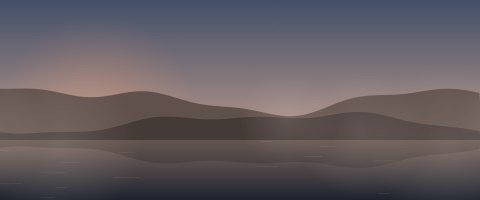
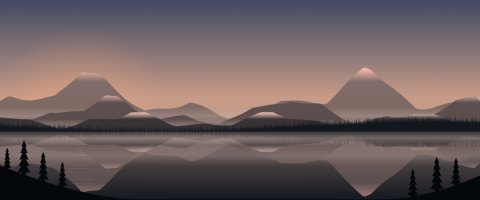
Fogline rebuilt: an alpine lake in morning fog
Four mountain ranges fading into the distance with snow caps that turn rose
at dawn and dusk (or with GPU load), fog banks drifting between the ranges
and over the water, a forest of fir tips along the shore, dark rocks and
pines in front, everything mirrored in the lake with a path of light.
The forest is drawn with the geometry renderer and its own clamped scale
(the curve renderer and a tiny transient scale made it stall).

Claude-Session: https://claude.ai/code/session_01KZiqyKDbVFHqr1XB5ozT8u

diff --git a/plasma/wallpapers/org.pillbox.atmosphere/contents/ui/FoglineScene.qml b/plasma/wallpapers/org.pillbox.atmosphere/contents/ui/FoglineScene.qml
@@ -1,6 +1,9 @@
 /*
- * Fogline – a misty lake under mountains, mirrored in the water.
- * Static shapes coloured by the clock; only fog banks and glints drift.
+ * Fogline – an alpine lake in morning fog. Four mountain ranges fade into the
+ * distance, snow caps catch the first and last light, fog banks drift between the
+ * ranges and over the water, a forest lines the shore and everything is mirrored
+ * in the still lake. CPU: the fog thickens and drifts. GPU: alpenglow on the peaks.
+ * Unread: rings on the water.
  * SPDX-License-Identifier: MIT
  */
 import QtQuick
@@ -10,141 +13,234 @@ import "palette.js" as P
 Item {
     id: scene
     property var env
-    readonly property real hour: env ? env.hour : 15
-    readonly property var sky: P.sky(hour, [110, 140, 165], 0.14)
-    readonly property var sunPos: P.sun(hour, 0.7)
-    readonly property real water: height * 0.7
-    readonly property real heat: env ? Math.max(0, (env.gpu - 0.25) / 0.7) : 0
-    readonly property real dens: Math.min(1, (env ? env.cpu : 0) + ({ light: 0, normal: 0.22, dense: 0.55 }[((env && env.cfg && env.cfg.FoglineFog) || "normal")] || 0))
-    readonly property bool live: env && env.running
+    readonly property real hour: env ? env.hour : 7.5
     readonly property real t: env ? env.time : 0
+    readonly property real cpu: env ? env.cpu : 0
+    readonly property real gpu: env ? env.gpu : 0
+    readonly property var sky: P.sky(hour, [118, 138, 162], 0.12)
+    readonly property real night: sky.star
+    readonly property var sunPos: P.sun(hour, 0.6)
+    readonly property real water: height * 0.66
+    readonly property real s: height / 1440
+    readonly property real vh: Math.min(height, width * 0.6)
+    // golden hour: warm light on the snow in the morning and evening, or from the GPU
+    readonly property real golden: Math.max(Math.max(0, 1 - Math.abs(hour - 7) / 1.6), Math.max(0, 1 - Math.abs(hour - 18.6) / 1.6))
+    readonly property real glow: Math.min(1, golden * (1 - night) + gpu * 0.7)
+    readonly property real dens: Math.min(1, cpu + ({ light: 0, normal: 0.25, dense: 0.6 }[(env && env.cfg && env.cfg.FoglineFog) || "normal"] || 0.25))
+    readonly property var light: sunPos.up ? P.mix([255, 238, 210], [255, 170, 120], golden) : [222, 230, 245]
+    readonly property real lightX: (sunPos.up ? sunPos.x : 0.7) * width
 
-    function ridge(base, amp, seed) {
-        const pts = [Qt.point(-10, water)]
-        for (let x = -10; x <= width + 10; x += 16) {
+    // ---------------------------------------------------------------- geometry
+    function tri(x) { const f = x - Math.floor(x); return 1 - Math.abs(2 * f - 1) }
+    function ridge(base, amp, seed, f1, f2, sharp) {
+        const pts = [Qt.point(-10, water + 2)]
+        for (let x = -10; x <= width + 10; x += 10) {
             const u = x / Math.max(1, width)
-            const y = Math.sin(u * 6.1 + seed) * 0.5 + Math.sin(u * 13.7 + seed * 2.3) * 0.25 + Math.sin(u * 29.3 + seed * 4.1) * 0.12
-            pts.push(Qt.point(x, base - (y * 0.5 + 0.5) * amp))
+            const v = Math.pow(tri(u * f1 + seed), sharp) * 0.62 + tri(u * f2 + seed * 1.9) * 0.26 + Math.sin(u * 61 + seed * 5) * 0.025
+            pts.push(Qt.point(x, base - v * amp))
         }
-        pts.push(Qt.point(width + 10, water))
+        pts.push(Qt.point(width + 10, water + 2))
         return pts
     }
-    readonly property var farRidge: ridge(height * 0.6, height * 0.22, 1.3)
-    readonly property var nearRidge: ridge(height * 0.69, height * 0.16, 4.2)
+    // the forest: a gentle hill line with many small fir tips on top
+    function forest(base, amp, seed) {
+        const pts = [Qt.point(-10, water + 2)]
+        if (width < 50 || height < 50) return pts          // not laid out yet (avoids an endless loop)
+        const k = Math.max(0.5, height / 1440)              // own scale, never tiny
+        let x = -10, i = 0
+        while (x <= width + 10) {
+            const u = x / Math.max(1, width)
+            const hill = base - (Math.sin(u * 5.3 + seed) * 0.5 + 0.5) * amp
+            const h = (16 + P.rnd(i, seed) * 34) * k
+            const w = (5 + P.rnd(i, seed + 1) * 4) * k
+            pts.push(Qt.point(x, hill))
+            pts.push(Qt.point(x + w * 0.5, hill - h))
+            x += w; i++
+        }
+        pts.push(Qt.point(width + 10, water + 2))
+        return pts
+    }
+    readonly property var ranges: [
+        ridge(water - vh * 0.06, vh * 0.32, 0.21, 1.7, 5.3, 2.6),     // farthest, tallest, craggy
+        ridge(water - vh * 0.03, vh * 0.2, 0.93, 2.6, 7.1, 2.0),
+        ridge(water - vh * 0.01, vh * 0.12, 1.57, 3.4, 8.3, 1.3)
+    ]
+    readonly property var forestLine: forest(water + 1, vh * 0.05, 3)
 
-    // sky + stars + sun glow
+    function rangeColor(i) { return P.col(P.mix(P.mix(sky.bot, [70, 86, 110], 0.25), [10, 14, 22], 0.2 + i * 0.24)) }
+    function snowColor(i) { return P.col(P.mix(P.mix(P.mix(sky.bot, [246, 248, 252], 0.85 - i * 0.25), [255, 170, 140], glow * (0.7 - i * 0.2)), [40, 48, 64], night * 0.6)) }
+
+    // ---------------------------------------------------------------- reusable landscape (also mirrored)
+    component Range: Shape {
+        property int idx
+        anchors.fill: parent
+        preferredRendererType: Shape.CurveRenderer
+        ShapePath {
+            strokeColor: "transparent"
+            fillGradient: LinearGradient {
+                x1: 0; y1: scene.water - scene.vh * [0.36, 0.23, 0.13][idx]; x2: 0; y2: scene.water
+                GradientStop { position: 0; color: scene.snowColor(idx) }
+                GradientStop { position: [0.14, 0.18, 0.3][idx]; color: scene.snowColor(idx) }
+                GradientStop { position: [0.3, 0.36, 0.5][idx]; color: scene.rangeColor(idx) }
+                GradientStop { position: 1; color: P.col(P.mix(scene.sky.bot, [12, 16, 24], 0.35 + idx * 0.2)) }
+            }
+            PathPolyline { path: scene.ranges[idx] }
+        }
+    }
+    component FogBand: Rectangle {
+        property real yPos
+        property real thick
+        property real speed: 120
+        property real strength: 1
+        readonly property real span: scene.width
+        x: -((scene.t * span / speed) % span)
+        y: yPos - thick / 2
+        width: scene.width * 2; height: thick
+        opacity: (0.25 + scene.dens * 0.6) * strength * (0.6 + 0.4 * (1 - scene.night))
+        gradient: Gradient {
+            GradientStop { position: 0; color: "transparent" }
+            GradientStop { position: 0.5; color: P.col(P.mix(scene.sky.bot, [236, 240, 245], 0.45), 0.55) }
+            GradientStop { position: 1; color: "transparent" }
+        }
+    }
+    component Landscape: Item {
+        width: scene.width; height: scene.water
+        Range { idx: 0 }
+        FogBand { yPos: scene.water - scene.vh * 0.08; thick: scene.vh * 0.09; speed: 160; strength: 0.8 }
+        Range { idx: 1 }
+        FogBand { yPos: scene.water - scene.vh * 0.035; thick: scene.vh * 0.06; speed: 110; strength: 0.9 }
+        Range { idx: 2 }
+        Shape {                                                   // the forest: many straight tips → plain geometry renderer
+            anchors.fill: parent
+            preferredRendererType: Shape.GeometryRenderer
+            ShapePath { strokeColor: "transparent"; fillColor: P.col(P.mix(scene.sky.top, [8, 14, 16], 0.85)); PathPolyline { path: scene.forestLine } }
+        }
+    }
+
+    // ---------------------------------------------------------------- sky
     Rectangle {
         width: parent.width; height: scene.water
         gradient: Gradient {
             GradientStop { position: 0; color: P.col(scene.sky.top) }
+            GradientStop { position: 0.75; color: P.col(P.mix(scene.sky.bot, [255, 190, 150], scene.golden * 0.25 * (1 - scene.night))) }
             GradientStop { position: 1; color: P.col(scene.sky.bot) }
         }
     }
-    Repeater {
-        model: 90
+    Stars { count: 140; band: 0.5; strength: scene.night }
+    Item {
+        x: scene.lightX
+        y: Math.min(scene.water - scene.vh * 0.05, (scene.sunPos.up ? scene.sunPos.y : 0.18) * scene.height)
+        visible: scene.sunPos.up || scene.night > 0.3
+        Glow { r: scene.vh * 0.42; tone: scene.light; strength: 0.22 + scene.golden * 0.18 }
         Rectangle {
-            required property int index
-            x: Math.abs((Math.sin(index * 12.9898) * 43758.5453) % 1) * scene.width
-            y: Math.abs((Math.sin(index * 78.233) * 12345.678) % 1) * scene.water * 0.8
-            width: 1.5 + (index % 3) * 0.5; height: width; radius: width / 2
-            color: "#e9eef2"; opacity: scene.sky.star * (0.35 + (index % 5) * 0.12)
+            readonly property real r: scene.vh * (scene.sunPos.up ? 0.035 : 0.022)
+            x: -r; y: -r; width: r * 2; height: width; radius: width / 2
+            color: P.col(scene.light, 0.95)
         }
     }
-    Shape {
-        id: sunGlow
-        readonly property real rad: scene.height * 0.5
-        readonly property var tone: scene.hour > 16 || scene.hour < 9 ? [255, 168, 120] : [255, 244, 225]
-        x: scene.sunPos.x * scene.width - sunGlow.rad; y: scene.sunPos.y * scene.height - sunGlow.rad
-        width: rad * 2; height: rad * 2
-        preferredRendererType: Shape.CurveRenderer
-        ShapePath {
-            strokeColor: "transparent"
-            fillGradient: RadialGradient {
-                centerX: sunGlow.rad; centerY: sunGlow.rad; centerRadius: sunGlow.rad; focalX: sunGlow.rad; focalY: sunGlow.rad
-                GradientStop { position: 0; color: P.col(sunGlow.tone, 0.42 * scene.sky.light) }
-                GradientStop { position: 1; color: P.col(sunGlow.tone, 0) }
-            }
-            PathAngleArc { centerX: sunGlow.rad; centerY: sunGlow.rad; radiusX: sunGlow.rad; radiusY: sunGlow.rad; startAngle: 0; sweepAngle: 360 }
-        }
-    }
+    Landscape {}
 
-    // mountains (crest glows with GPU load)
-    component Ridge: Shape {
-        id: rg
-        property var points
-        property real depth
-        anchors.fill: parent
-        preferredRendererType: Shape.CurveRenderer
-        ShapePath {
-            strokeColor: scene.heat > 0.01 ? P.col([255, 160, 90], 0.6 * scene.heat * rg.depth) : "transparent"
-            strokeWidth: 1.5
-            fillColor: P.col(P.mix(scene.sky.bot, [8, 10, 13], 0.35 + rg.depth * 0.5))
-            PathPolyline { path: rg.points }
-        }
-    }
-    Ridge { points: scene.farRidge; depth: 0.3 }
-    Ridge { points: scene.nearRidge; depth: 0.62 }
-
-    // the lake: darker sky, mirrored ridge
+    // ---------------------------------------------------------------- the lake
     Rectangle {
         y: scene.water; width: parent.width; height: parent.height - scene.water
         gradient: Gradient {
-            GradientStop { position: 0; color: P.col(P.mix(scene.sky.bot, [10, 12, 16], 0.35)) }
-            GradientStop { position: 1; color: P.col(P.mix(scene.sky.top, [4, 6, 8], 0.6)) }
+            GradientStop { position: 0; color: P.col(P.mix(scene.sky.bot, [14, 20, 28], 0.4)) }
+            GradientStop { position: 1; color: P.col(P.mix(scene.sky.top, [4, 7, 10], 0.75)) }
         }
     }
-    Ridge {
-        points: scene.nearRidge; depth: 0.9
-        opacity: 0.28
-        transform: Scale { origin.y: scene.water; yScale: -1 }
+    Item {                                                      // mirror image
+        y: scene.water; width: parent.width; height: parent.height - scene.water
+        clip: true
+        opacity: 0.55
+        Item {
+            y: scene.water; width: scene.width; height: scene.water
+            transform: Scale { yScale: -1 }
+            Landscape {}
+        }
     }
-    // glints drifting on the water (render-thread animators)
+    // a path of light on the water
     Repeater {
-        model: 14
+        model: (scene.sunPos.up || scene.night > 0.3) ? 22 : 0
         Rectangle {
             required property int index
-            y: scene.water + 6 + (index * 37.3) % Math.max(1, scene.height - scene.water - 8)
-            width: 40 + (index % 5) * 14; height: 1
-            color: P.col(P.mix(scene.sky.bot, [255, 255, 255], 0.5), 0.12 + 0.2 * scene.sky.light)
-            readonly property real span: scene.width + 160
-            x: ((scene.t * (span / (26 + (index % 4) * 9)) + index * 233) % span) - 80
+            readonly property real base: (18 + index * 9) * scene.s
+            width: base * (0.6 + 0.4 * Math.sin(scene.t * 1.3 + index * 1.7))
+            height: Math.max(1, 2 * scene.s)
+            radius: height / 2
+            x: scene.lightX - width / 2 + Math.sin(scene.t * 0.7 + index) * 5 * scene.s
+            y: scene.water + 6 + Math.pow(index / 21, 1.5) * (scene.height - scene.water) * 0.85
+            color: P.col(scene.light, (0.45 - index * 0.013) * (0.6 + scene.golden * 0.4))
         }
     }
-    // fog banks along the water line, denser under load
+    // low fog over the water
+    FogBand { yPos: scene.water + scene.vh * 0.03; thick: scene.vh * 0.08; speed: 90; strength: 1 }
+    FogBand { yPos: scene.water + scene.vh * 0.12; thick: scene.vh * 0.1; speed: 140; strength: 0.6 }
+    // faint ripples
     Repeater {
-        model: 6
-        Shape {
-            id: fogBlob
+        model: 10
+        Rectangle {
             required property int index
-            readonly property real rad: scene.height * (0.18 + (index % 3) * 0.06) * (1 + scene.dens * 0.6)
-            y: scene.height * (0.6 + (index % 3) * 0.06) - rad
-            width: rad * 2; height: rad * 2
-            opacity: (0.06 + 0.3 * scene.dens) * (0.5 + 0.5 * scene.sky.light)
+            y: scene.water + 10 + Math.pow(index / 9, 1.4) * (scene.height - scene.water) * 0.9
+            x: P.rnd(index, 4) * scene.width * 0.7
+            width: scene.width * (0.1 + P.rnd(index, 5) * 0.25); height: 1
+            color: Qt.rgba(1, 1, 1, 0.025 + 0.025 * (0.5 + 0.5 * Math.sin(scene.t * 0.6 + index)))
+        }
+    }
+
+    // ---------------------------------------------------------------- foreground shore
+    function shoreY(x) {
+        const u = x / Math.max(1, width)
+        const left = Math.max(0, 1 - u / 0.28), right = Math.max(0, (u - 0.8) / 0.2)
+        return height - (Math.pow(left, 1.6) * 0.17 + Math.pow(right, 1.8) * 0.12) * vh - 4 * s
+    }
+    Shape {
+        anchors.fill: parent
+        preferredRendererType: Shape.CurveRenderer
+        ShapePath {
+            strokeColor: "transparent"; fillColor: "#05080a"
+            PathPolyline {
+                path: { const pts = [Qt.point(-10, scene.height + 10)]
+                    for (let x = -10; x <= scene.width + 10; x += 12) pts.push(Qt.point(x, scene.shoreY(x)))
+                    pts.push(Qt.point(scene.width + 10, scene.height + 10)); return pts }
+            }
+        }
+    }
+    Repeater {
+        model: 7
+        Shape {
+            id: pine
+            required property int index
+            readonly property real px: scene.width * [0.015, 0.05, 0.09, 0.13, 0.86, 0.91, 0.95][index]
+            readonly property real ph: (index === 1 || index === 5 ? 260 : 150 + P.rnd(index, 7) * 80) * scene.s
+            x: px - width / 2; y: scene.shoreY(px) - ph + 6
+            width: ph * 0.36; height: ph
             preferredRendererType: Shape.CurveRenderer
             ShapePath {
-                strokeColor: "transparent"
-                fillGradient: RadialGradient {
-                    centerX: fogBlob.rad; centerY: fogBlob.rad; centerRadius: fogBlob.rad; focalX: fogBlob.rad; focalY: fogBlob.rad
-                    GradientStop { position: 0; color: P.col(P.mix(scene.sky.bot, [235, 240, 244], 0.45)) }
-                    GradientStop { position: 1; color: "transparent" }
+                strokeColor: "transparent"; fillColor: "#05080a"
+                PathPolyline {
+                    path: { const w = pine.width, h = pine.height, pts = [Qt.point(w / 2, 0)]
+                        for (let k = 1; k <= 5; ++k) { const y = h * k / 5.6, half = w / 2 * (0.25 + k * 0.15)
+                            pts.push(Qt.point(w / 2 + half, y)); pts.push(Qt.point(w / 2 + half * 0.45, y)) }
+                        pts.push(Qt.point(w / 2 + w * 0.06, h)); pts.push(Qt.point(w / 2 - w * 0.06, h))
+                        for (let k = 5; k >= 1; --k) { const y = h * k / 5.6, half = w / 2 * (0.25 + k * 0.15)
+                            pts.push(Qt.point(w / 2 - half * 0.45, y)); pts.push(Qt.point(w / 2 - half, y)) }
+                        return pts }
                 }
-                PathAngleArc { centerX: fogBlob.rad; centerY: fogBlob.rad; radiusX: fogBlob.rad; radiusY: fogBlob.rad; startAngle: 0; sweepAngle: 360 }
             }
-            readonly property real span: scene.width + fogBlob.rad * 2 + 40
-            x: ((scene.t * span / (70 + fogBlob.index * 7) + fogBlob.index * span / 6) % span) - fogBlob.rad * 2
         }
     }
-    // a ring on the water for each new notification
+
+    // ---------------------------------------------------------------- a ring on the water for each notification
     Rectangle {
         id: ring
-        x: scene.width * 0.6 - width / 2; y: scene.water + (scene.height - scene.water) * 0.4 - height / 2
-        width: 10; height: width * 0.3; radius: height / 2
-        color: "transparent"; border.width: 1.2; border.color: Qt.rgba(0.86, 0.91, 0.94, 0.6); opacity: 0
+        x: scene.width * 0.5 - width / 2; y: scene.water + (scene.height - scene.water) * 0.35 - height / 2
+        width: 10; height: width * 0.28; radius: height / 2
+        color: "transparent"; border.width: 1.2; border.color: Qt.rgba(0.88, 0.92, 0.96, 0.6); opacity: 0
         ParallelAnimation {
             id: ringAnim
-            NumberAnimation { target: ring; property: "width"; from: 6; to: 140; duration: 2200; easing.type: Easing.OutCubic }
-            NumberAnimation { target: ring; property: "opacity"; from: 0.9; to: 0; duration: 2200 }
+            NumberAnimation { target: ring; property: "width"; from: 6; to: 180 * scene.s; duration: 2400; easing.type: Easing.OutCubic }
+            NumberAnimation { target: ring; property: "opacity"; from: 0.9; to: 0; duration: 2400 }
         }
     }
-    Connections { target: scene.env; ignoreUnknownSignals: true; function onNewNotification() { ring.x = scene.width * (0.15 + Math.random() * 0.7) - 70; ringAnim.restart() } }
+    Connections { target: scene.env; ignoreUnknownSignals: true; function onNewNotification() { ring.x = scene.width * (0.25 + Math.random() * 0.5) - 90 * scene.s; ringAnim.restart() } }
 }
